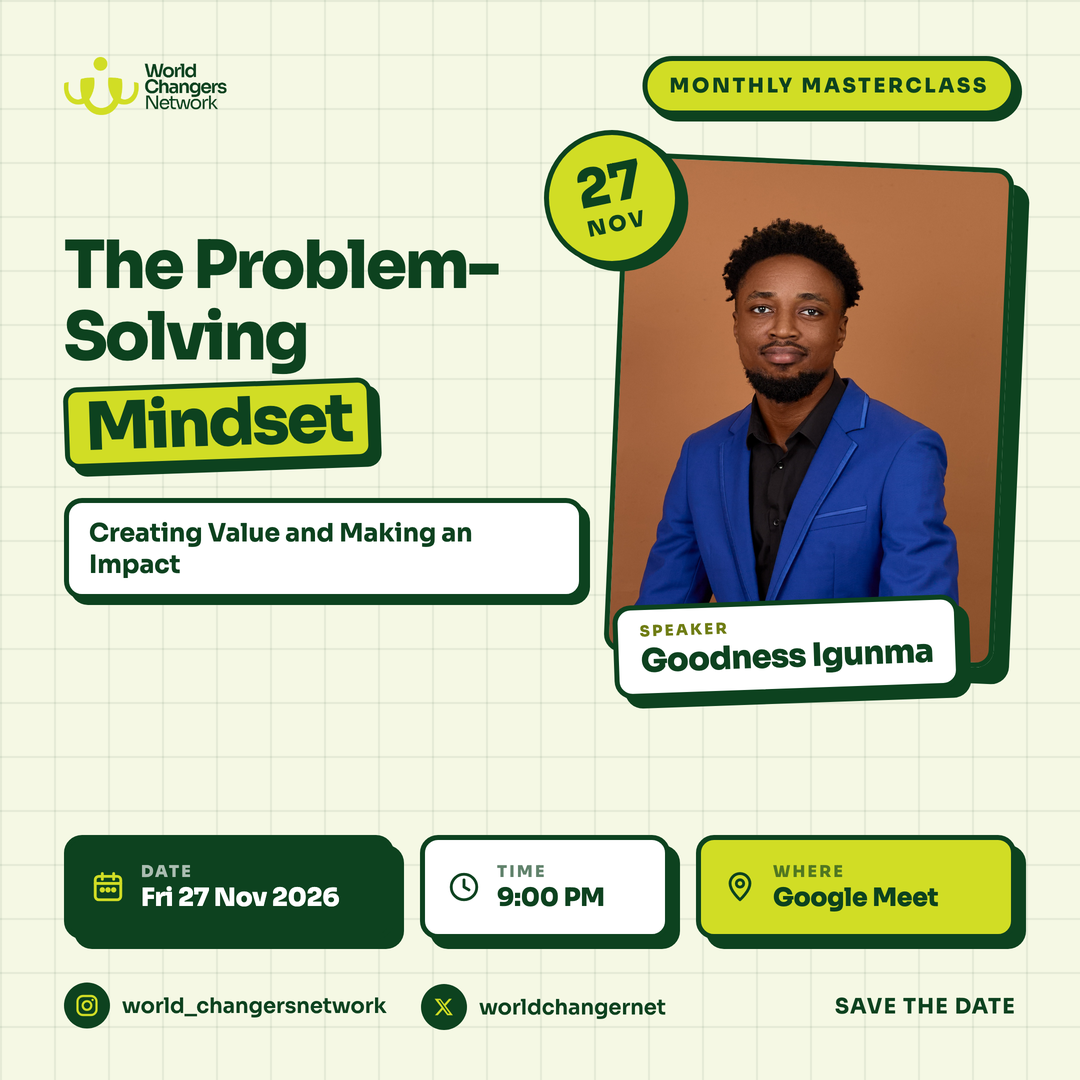
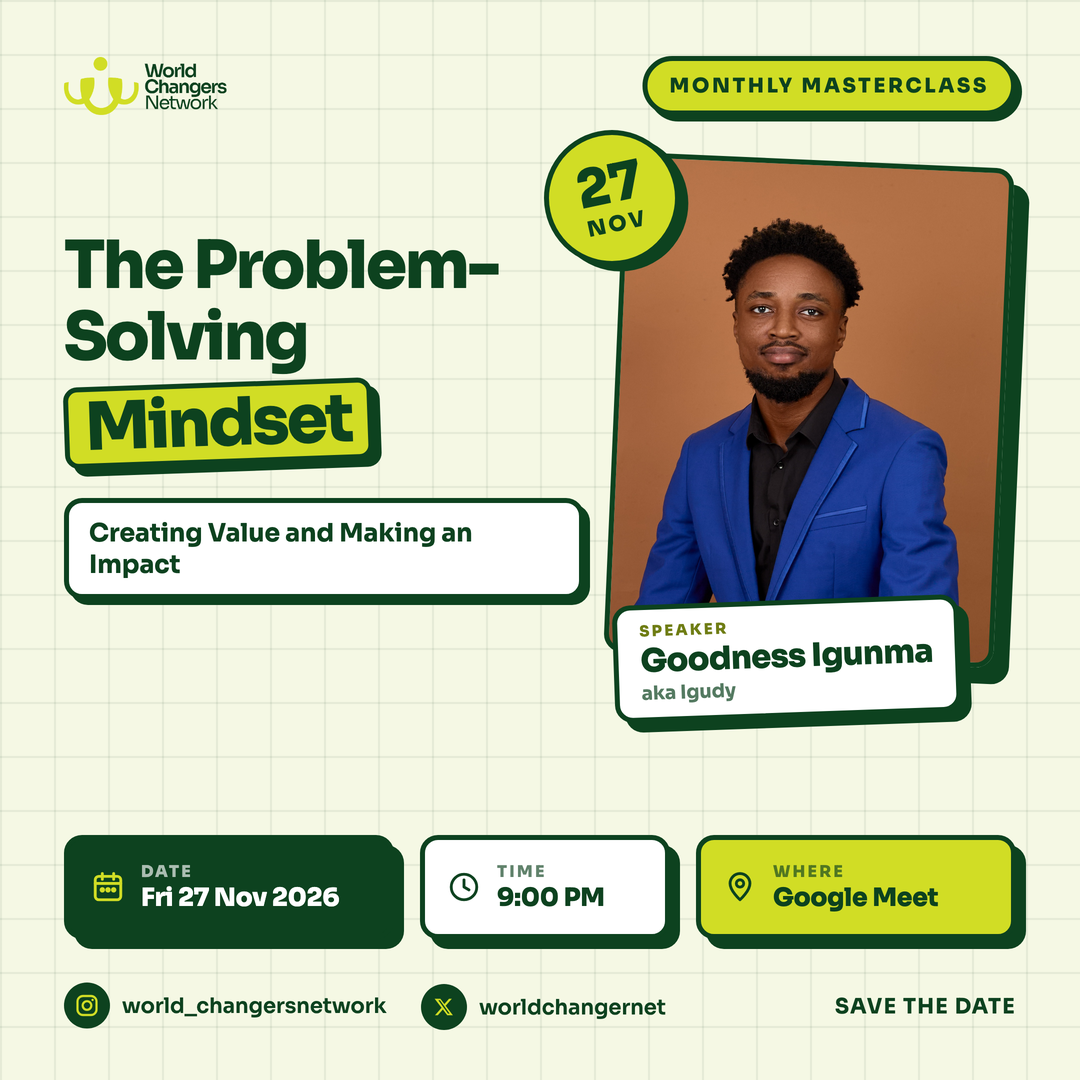
Masterclass 27 Nov: show aka Igudy under Goodness Igunma

Changed region(s): [[0.55, 0.5806, 0.9167, 0.7028]]

diff --git a/tools/masterclass.py b/tools/masterclass.py
@@ -403,7 +403,8 @@ def layout_brutal(row):
 <div class="box" style="position:absolute;right:120px;top:{600+o+(0 if SQ else 120)}px;background:#fff;padding:12px 22px;
   transform:rotate(-2deg)">
   <div style="font-size:15px;letter-spacing:.16em;font-weight:800;color:#6f7d14">SPEAKER</div>
-  <div style="font-family:'Display';font-weight:800;font-size:32px;letter-spacing:-.02em">{g.esc(row['Host'])}</div></div>
+  <div style="font-family:'Display';font-weight:800;font-size:32px;letter-spacing:-.02em">{g.esc(row['Host'])}</div>
+  {f'<div style="font-size:19px;font-weight:700;opacity:.7">aka {g.esc(row.get("Also known as","").strip())}</div>' if row.get("Also known as","").strip() else ''}</div>
 <div class="box" style="position:absolute;right:400px;top:{130+o}px;width:136px;height:136px;border-radius:50%;
   background:{LIME};display:flex;flex-direction:column;align-items:center;justify-content:center;
   transform:rotate(-12deg);box-shadow:7px 7px 0 {FOREST};z-index:3">
